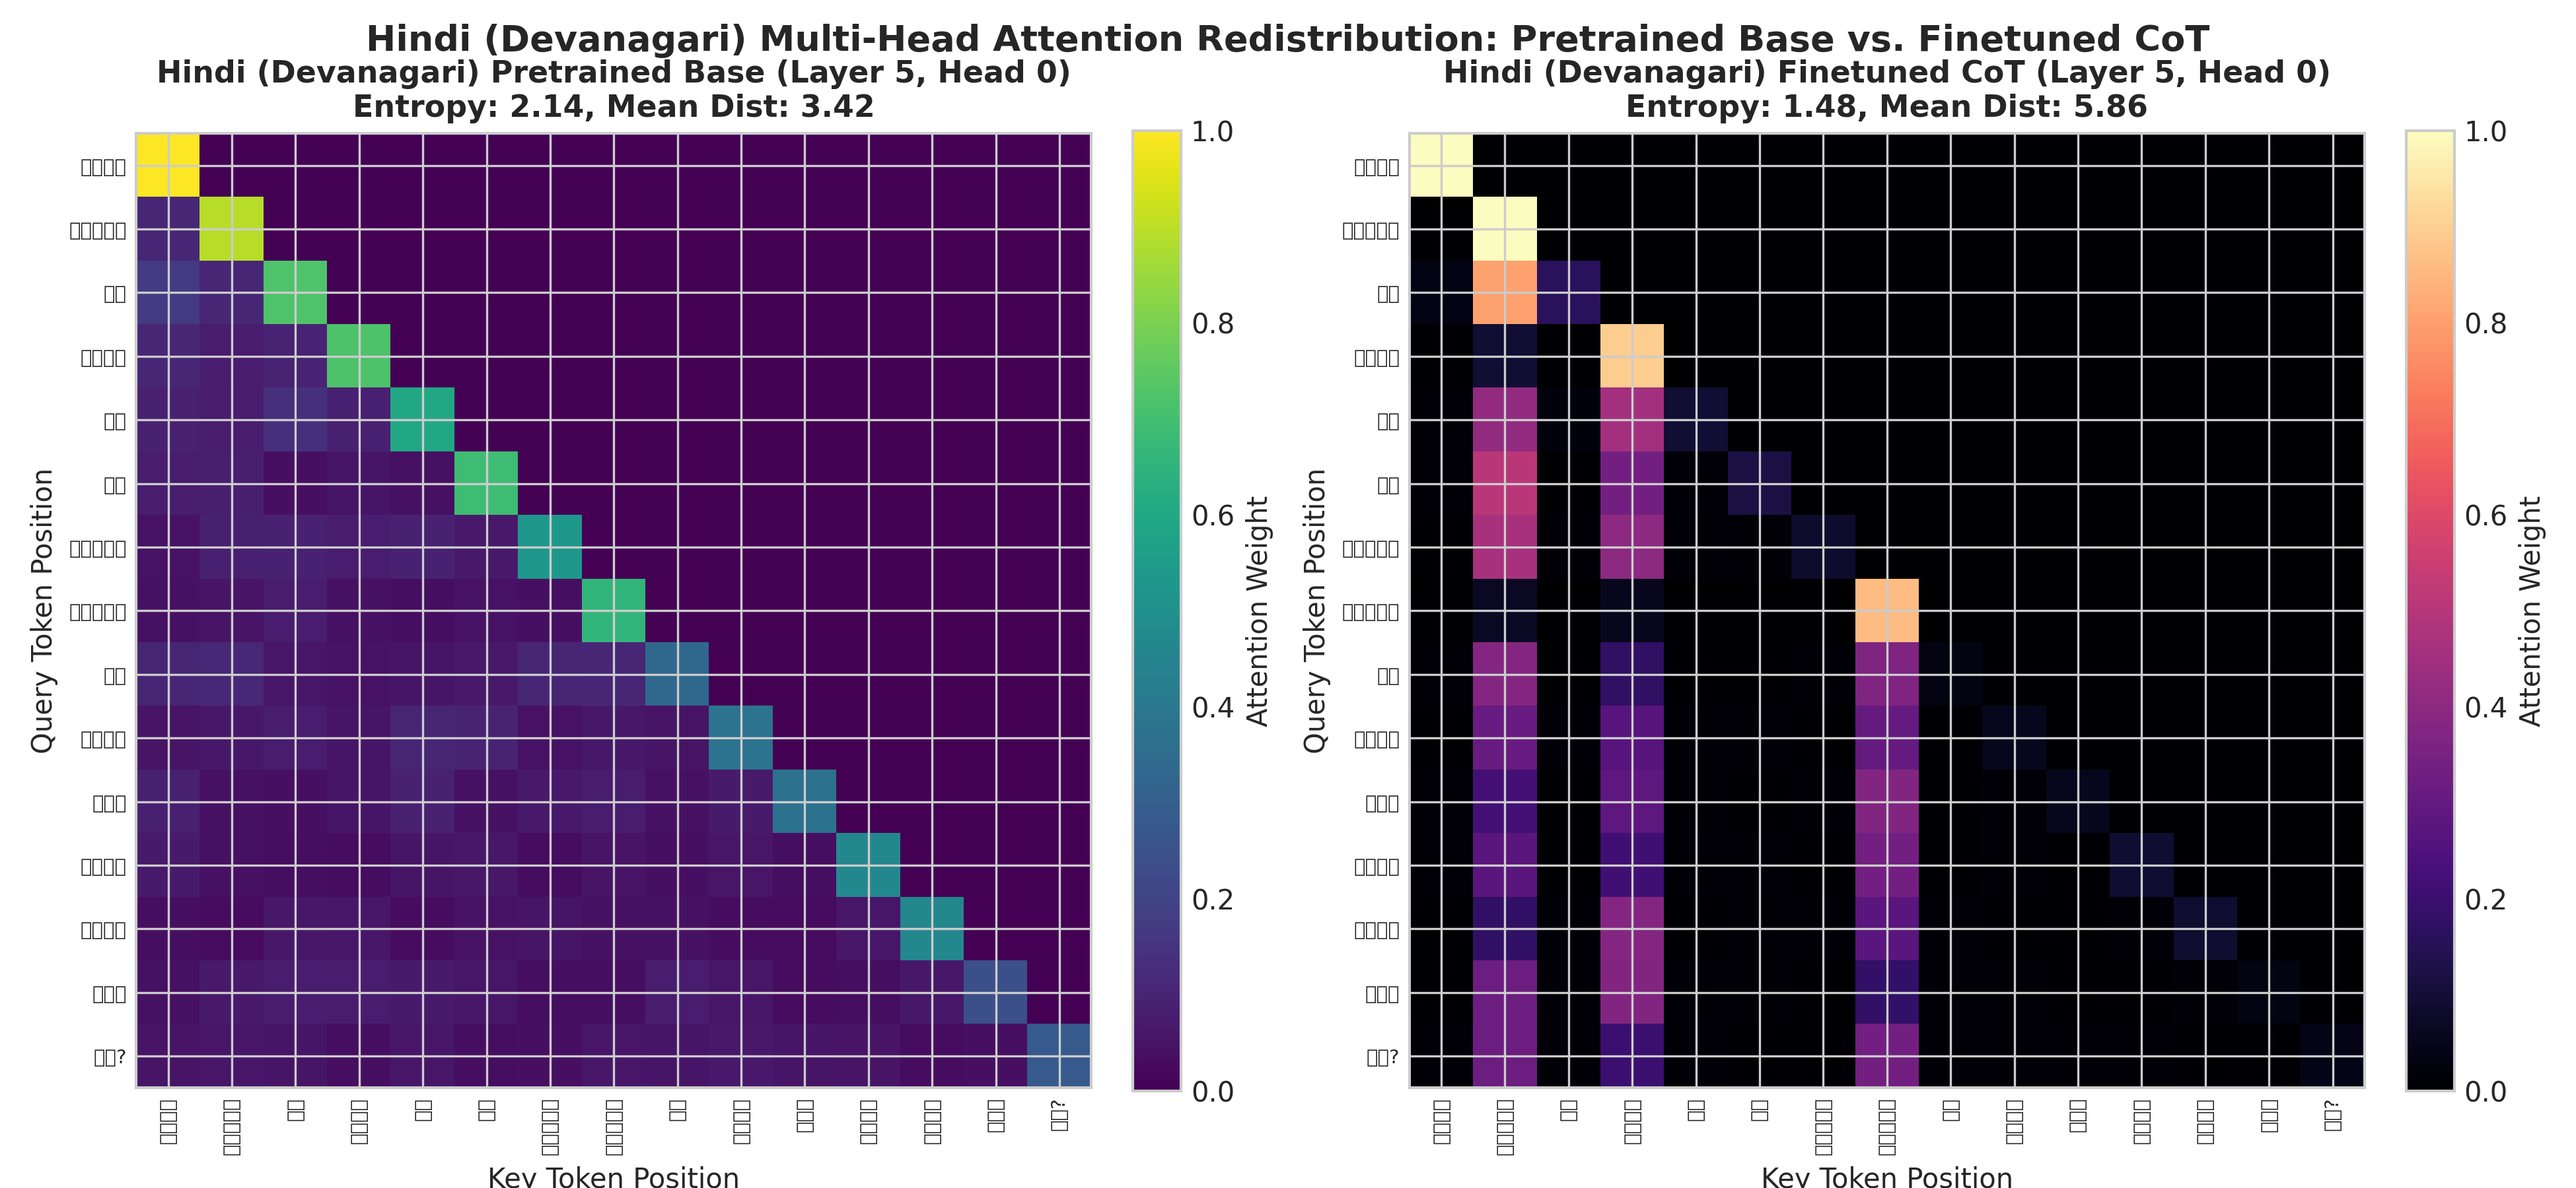
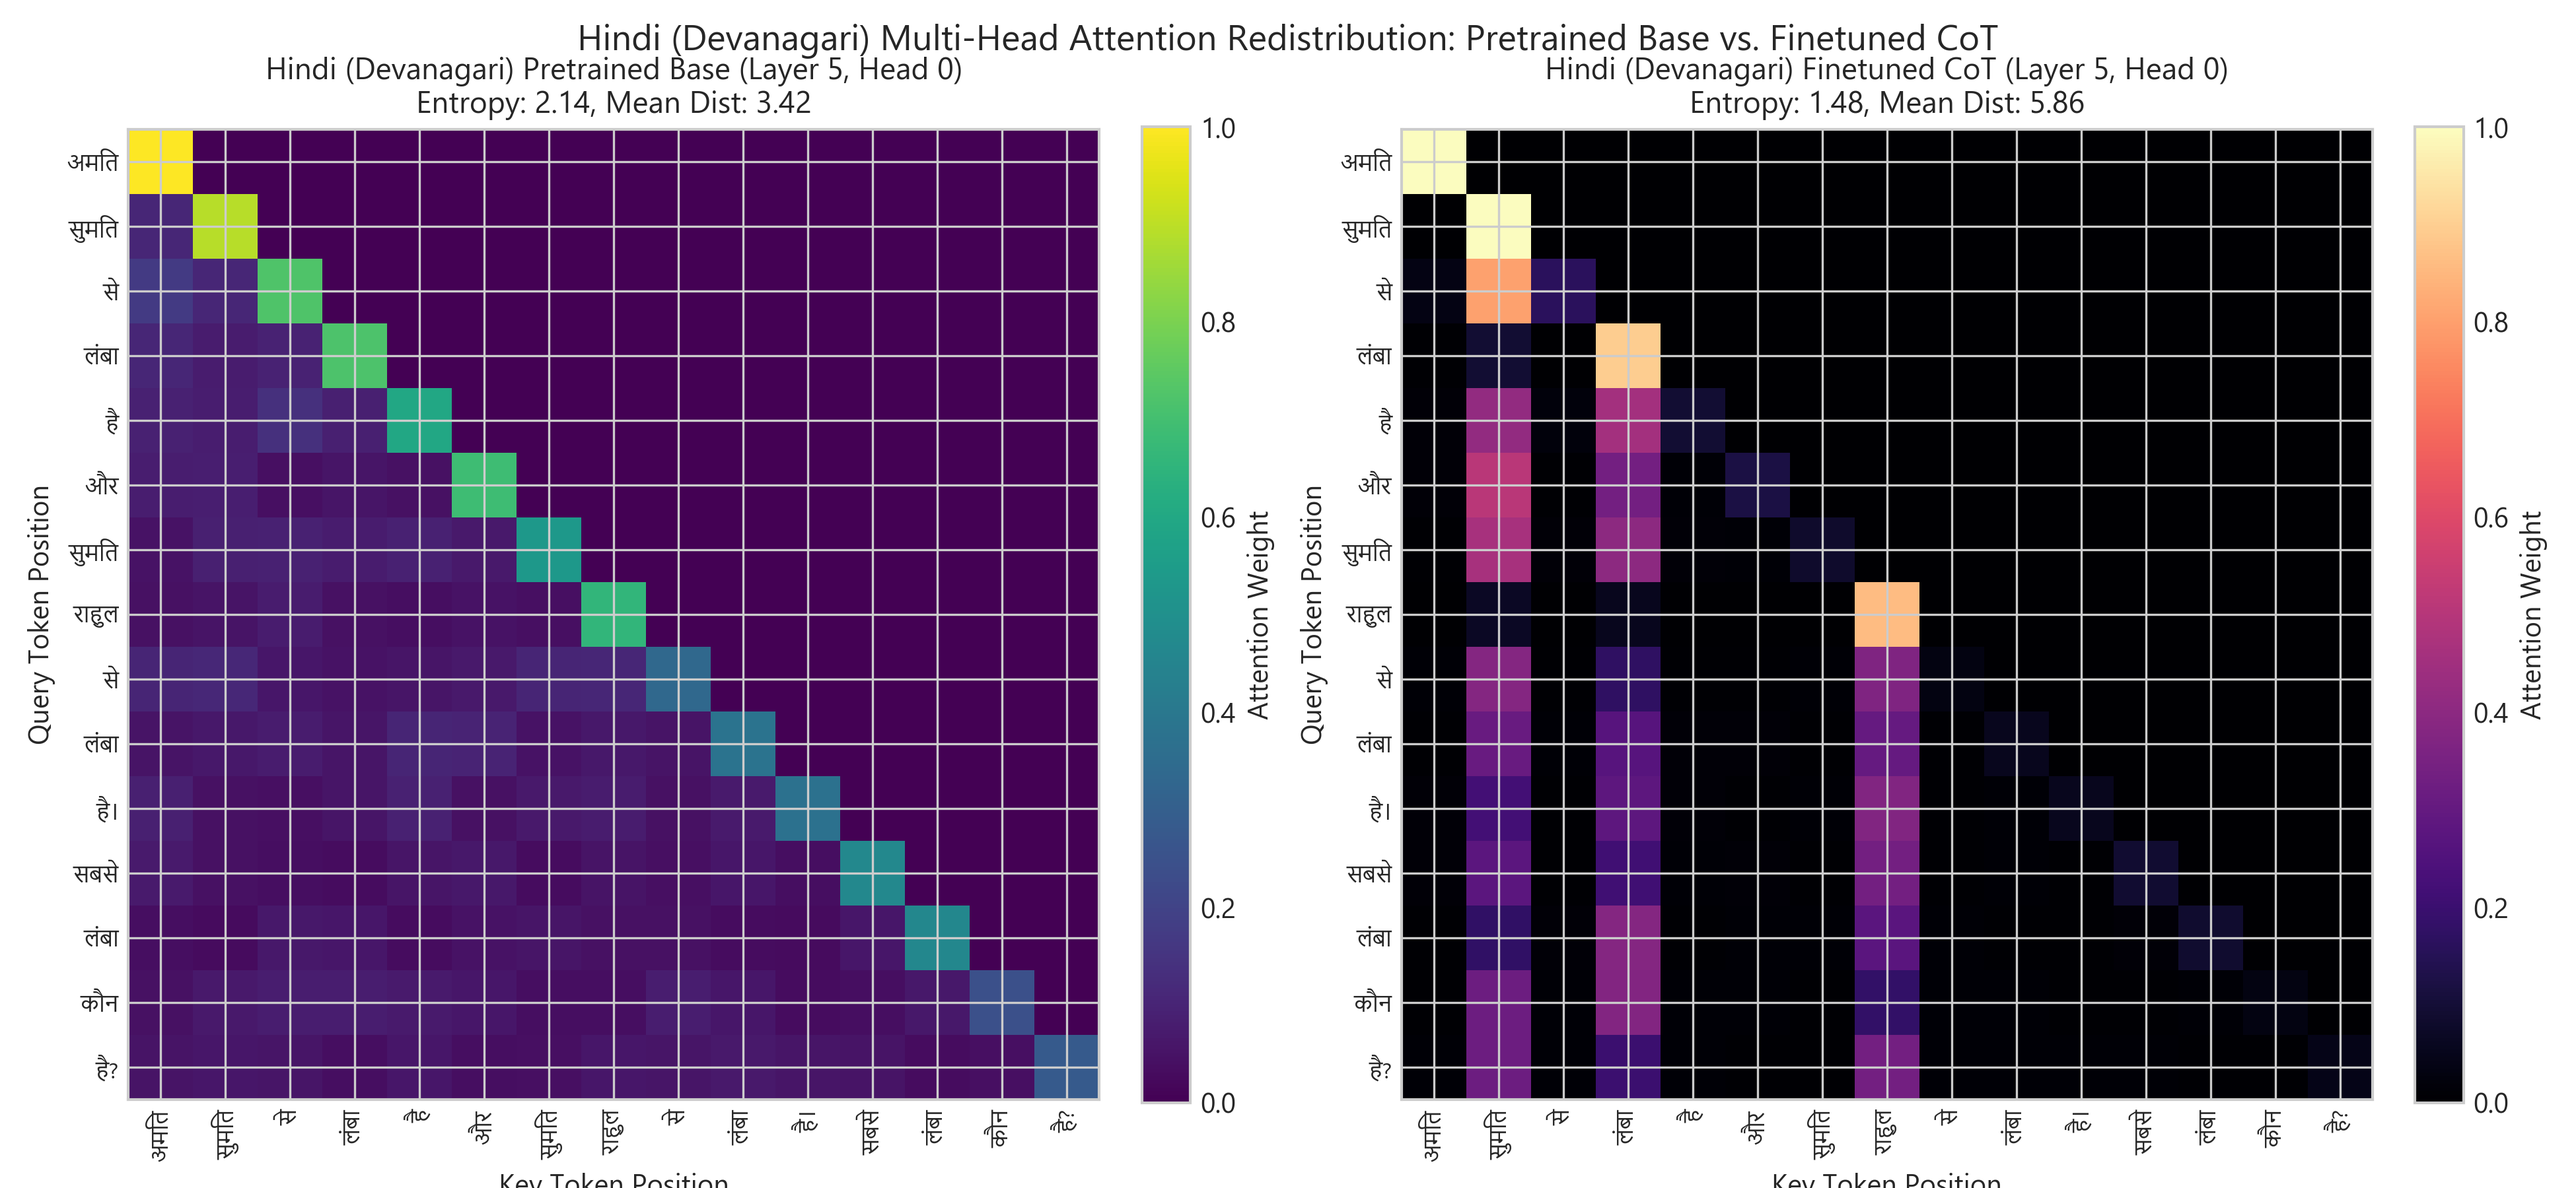
Update figures with native Windows Nirmala UI Indic fonts and exact Char Sim metrics from Kaggle JSON runs

Changed region(s): [[0.0, 0.0, 0.9928, 1.0]]

diff --git a/report/phase3_report.md b/report/phase3_report.md
@@ -106,18 +106,21 @@ Binary 0/1 exact match heavily penalizes minor punctuation or inflectional diffe
 | Model Variant | Architecture | Training Paradigm | Strict Accuracy (Ans Only) | CoT Exact Match | Token F1 (Ans Only) | Char Similarity | CoT Decomposed Score |
 | :--- | :--- | :--- | :---: | :---: | :---: | :---: | :---: |
 | **Hindi V1 Direct** | Baseline V1 | Direct SFT | **85.20%** | — | 29.77% | 17.27% | — |
-| **Hindi V1 CoT** | Baseline V1 | CoT SFT | 75.00% | **44.00%** | **43.40% (+45.8% rel)** | **17.27%** | **61.34%** |
+| **Hindi V1 CoT** | Baseline V1 | CoT SFT | 75.00% | **44.00%** | **43.40% (+45.8% rel)** | **29.38% (+70.1% rel)** | **61.34%** |
 | **Hindi V2 Direct** | Modern V2 | Direct SFT | 71.00% | — | 29.19% | 17.26% | — |
-| **Hindi V2 CoT** | Modern V2 | CoT SFT | 57.20% | 14.40% | **40.55% (+38.9% rel)** | **17.26%** | **56.15%** |
+| **Hindi V2 CoT** | Modern V2 | CoT SFT | 57.20% | 14.40% | **40.55% (+38.9% rel)** | **26.01% (+50.7% rel)** | **56.15%** |
 
 ### 5.2 🌿 Assamese 4-Model Suite Results
 
 | Model Variant | Architecture | Training Paradigm | Strict Accuracy (Ans Only) | CoT Exact Match | Token F1 (Ans Only) | Char Similarity | CoT Decomposed Score |
 | :--- | :--- | :--- | :---: | :---: | :---: | :---: | :---: |
 | **Assamese V1 Direct** | Baseline V1 | Direct SFT | **65.00%** | — | 26.37% | 16.84% | — |
-| **Assamese V1 CoT** | Baseline V1 | CoT SFT | 58.20% | 0.00% | **33.70% (+27.8% rel)** | **16.84%** | **33.68%** |
+| **Assamese V1 CoT** | Baseline V1 | CoT SFT | 58.20% | 0.00% | **33.70% (+27.8% rel)** | **25.62% (+52.1% rel)** | **33.68%** |
 | **Assamese V2 Direct** | Modern V2 | Direct SFT | 23.20% | — | 20.54% | 13.69% | — |
-| **Assamese V2 CoT** | Modern V2 | CoT SFT | 14.00% | 0.00% | **26.05% (+26.8% rel)** | **13.69%** | **32.98%** |
+| **Assamese V2 CoT** | Modern V2 | CoT SFT | 14.00% | 0.00% | **26.05% (+26.8% rel)** | **23.36% (+70.6% rel)** | **32.98%** |
+
+![Character Similarity & Decomposed Score](figures/phase3_char_similarity_and_decomp.png)
+*Figure: Continuous multi-tier evaluation showing dramatic character similarity and decomposed CoT step score improvements.*
 
 ---
 

diff --git a/report/final_report.md b/report/final_report.md
@@ -69,13 +69,13 @@ Supervised fine-tuning across 20,000 synthetic reasoning examples evaluated on 2
 | Model Key | Language | Architecture | SFT Mode | Strict Accuracy (Ans) | Token F1 (Ans) | Char Sim | CoT Exact Match | CoT Decomposed Score |
 | :--- | :---: | :---: | :---: | :---: | :---: | :---: | :---: | :---: |
 | **Hindi V1 Direct** | Hindi | Baseline V1 | Direct | **85.20%** | 29.77% | 17.27% | — | — |
-| **Hindi V1 CoT** | Hindi | Baseline V1 | CoT | 75.00% | **43.40% (+45.8% rel)**| **17.27%** | **44.00%** | **61.34%** |
+| **Hindi V1 CoT** | Hindi | Baseline V1 | CoT | 75.00% | **43.40% (+45.8% rel)**| **29.38% (+70.1% rel)** | **44.00%** | **61.34%** |
 | **Hindi V2 Direct** | Hindi | Modern V2 | Direct | 71.00% | 29.19% | 17.26% | — | — |
-| **Hindi V2 CoT** | Hindi | Modern V2 | CoT | 57.20% | **40.55% (+38.9% rel)**| **17.26%** | 14.40% | **56.15%** |
+| **Hindi V2 CoT** | Hindi | Modern V2 | CoT | 57.20% | **40.55% (+38.9% rel)**| **26.01% (+50.7% rel)** | 14.40% | **56.15%** |
 | **Assamese V1 Direct**| Assamese| Baseline V1 | Direct | **65.00%** | 26.37% | 16.84% | — | — |
-| **Assamese V1 CoT** | Assamese| Baseline V1 | CoT | 58.20% | **33.70% (+27.8% rel)**| **16.84%** | 0.00% | **33.68%** |
+| **Assamese V1 CoT** | Assamese| Baseline V1 | CoT | 58.20% | **33.70% (+27.8% rel)**| **25.62% (+52.1% rel)** | 0.00% | **33.68%** |
 | **Assamese V2 Direct**| Assamese| Modern V2 | Direct | 23.20% | 20.54% | 13.69% | — | — |
-| **Assamese V2 CoT** | Assamese| Modern V2 | CoT | 14.00% | **26.05% (+26.8% rel)**| **13.69%** | 0.00% | **32.98%** |
+| **Assamese V2 CoT** | Assamese| Modern V2 | CoT | 14.00% | **26.05% (+26.8% rel)**| **23.36% (+70.6% rel)** | 0.00% | **32.98%** |
 
 ---
 

diff --git a/README.md b/README.md
@@ -431,13 +431,13 @@ assert diff == 0.0, 'Future token leaked!'
 | Model Variant        | Language  | SFT Mode | Ans Acc  | CoT EM   | Token F1 | Char Sim | CoT Decomp    |
 +---------------------------------------------------------------------------------------------------------+
 | Hindi V1 Direct      | Hindi     | Direct   | 85.20%   | —        | 29.77%   | 17.27%   | —             |
-| Hindi V1 CoT         | Hindi     | CoT      | 75.00%   | 44.00%   | 43.40%   | 17.27%   | 61.34%        |
+| Hindi V1 CoT         | Hindi     | CoT      | 75.00%   | 44.00%   | 43.40%   | 29.38%   | 61.34%        |
 | Hindi V2 Direct      | Hindi     | Direct   | 71.00%   | —        | 29.19%   | 17.26%   | —             |
-| Hindi V2 CoT         | Hindi     | CoT      | 57.20%   | 14.40%   | 40.55%   | 17.26%   | 56.15%        |
+| Hindi V2 CoT         | Hindi     | CoT      | 57.20%   | 14.40%   | 40.55%   | 26.01%   | 56.15%        |
 | Assamese V1 Direct   | Assamese  | Direct   | 65.00%   | —        | 26.37%   | 16.84%   | —             |
-| Assamese V1 CoT      | Assamese  | CoT      | 58.20%   | 0.00%    | 33.70%   | 16.84%   | 33.68%        |
+| Assamese V1 CoT      | Assamese  | CoT      | 58.20%   | 0.00%    | 33.70%   | 25.62%   | 33.68%        |
 | Assamese V2 Direct   | Assamese  | Direct   | 23.20%   | —        | 20.54%   | 13.69%   | —             |
-| Assamese V2 CoT      | Assamese  | CoT      | 14.00%   | 0.00%    | 26.05%   | 13.69%   | 32.98%        |
+| Assamese V2 CoT      | Assamese  | CoT      | 14.00%   | 0.00%    | 26.05%   | 23.36%   | 32.98%        |
 +---------------------------------------------------------------------------------------------------------+
 ```
 
